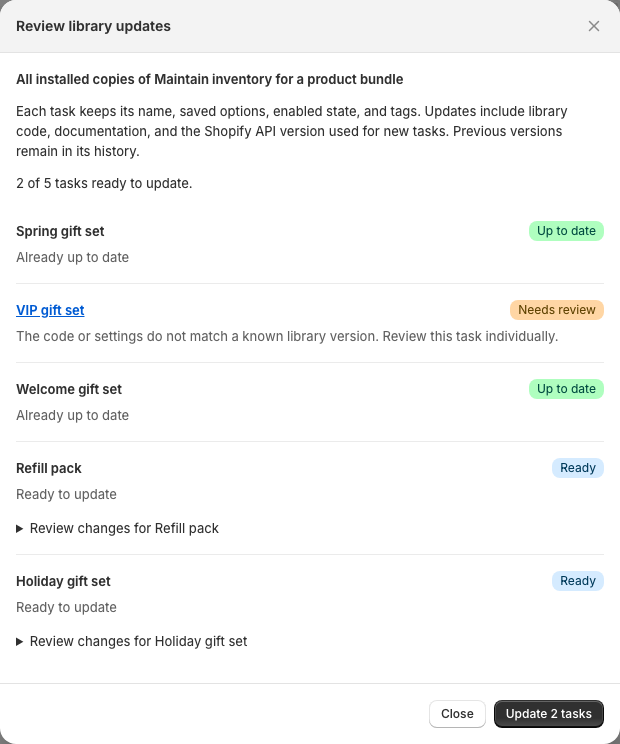
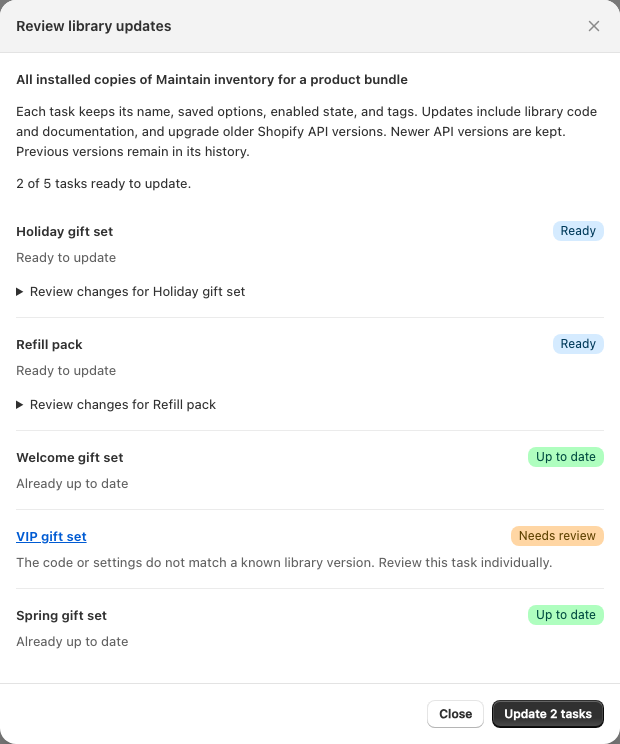
Clarify API version upgrades in task library update help (#79)

diff --git a/resources/task-library/updating-tasks.md b/resources/task-library/updating-tasks.md
@@ -14,9 +14,9 @@ The screenshots below use an example store with several copies of **Maintain inv
 
 Each copy keeps its name, saved option values, enabled or disabled state, and tags. Its previous code, documentation, and settings remain in its version history.
 
-The update replaces the library's code, documentation, and related execution settings, such as subscriptions, JavaScript, sequencing settings, and preview definitions. It also sets the Shopify API version to the version Mechanic uses for newly installed tasks, so the updated code is previewed and saved using that version. Documentation and API version changes appear in the review alongside code changes.
+The update replaces the library's code, documentation, and related execution settings, such as subscriptions, JavaScript, sequencing settings, and preview definitions. It also upgrades older Shopify API versions to the version Mechanic uses for newly installed tasks. If you have selected a newer API version or `unstable`, that selection is kept. The updated code is previewed and saved using the resulting version. Documentation and API version changes appear in the review alongside code changes.
 
-Mechanic offers this update only when your copy's code and execution settings match a known library version and the new version uses the same option fields. An update can also be available when the code is already current but the documentation or API version differs.
+Mechanic offers this update only when your copy's code and execution settings match a known library version and the new version uses the same option fields. An update can also be available when the code is already current but the documentation differs or the API version needs upgrading.
 
 If you've added your own notes to the task's documentation, review the documentation changes before updating. The update replaces those notes with the library's documentation; the previous documentation remains in version history.
 
